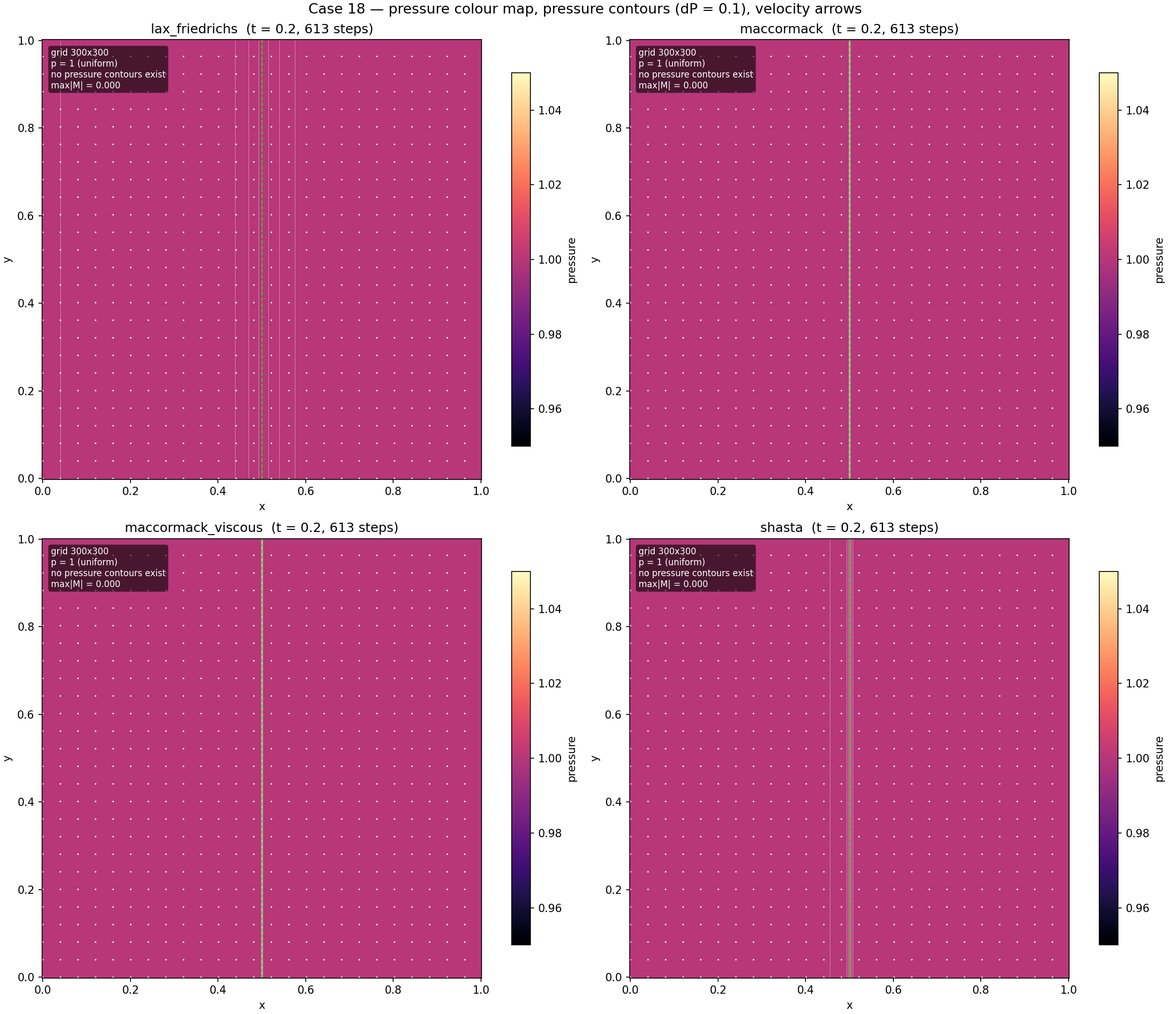
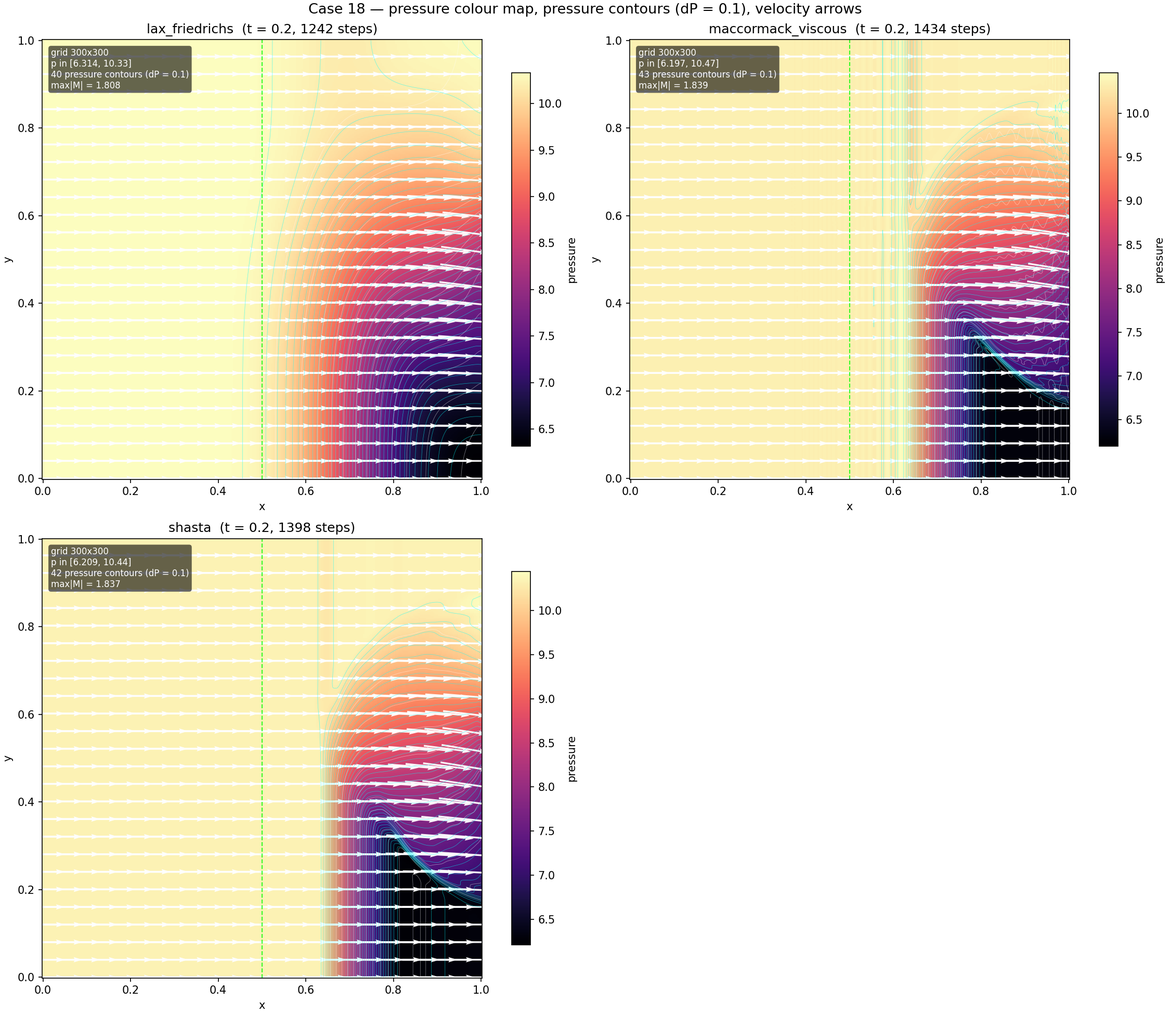
Case 18: four-quadrant shock + contact Riemann problem
Rewrite test 10 initial condition as a genuine four-quadrant 2D Riemann problem (vertical M=3 shock at x=0.5, horizontal rho=1/3 contact at y=0.5) with zero-gradient open boundaries. Update README.md and 代码导览.md, remove obsolete outputs_shock/, and refresh test 10 outputs.

diff --git a/Euler2D.py b/Euler2D.py
@@ -292,8 +292,7 @@ def boundary_kind(test_case: int) -> str:
         7: "none",   # Liska case 3: open square, waves leave the domain
         8: "none",   # Liska case 4: open square
         9: "all",    # implosion: reflecting walls on all four sides (sec. 4.7)
-        10: "right", # homework Case 18: reflecting wall at x = 1 only;
-                     # x = 0 and y = 0, 1 use zero-gradient extrapolation
+        10: "none",  # homework Case 18: four-quadrant Riemann problem, open square
     }.get(test_case, "none")
 
 
@@ -423,22 +422,18 @@ def init_test_2d(test_case: int, x: np.ndarray, y: np.ndarray,
     7 : Liska case 3  (S,S,S,S),  T = 0.3
     8 : Liska case 4  (S,S,S,S),  T = 0.25
     9 : implosion diamond, reflecting walls, T = 0.045 (early) / 2.5 (late)
-    10: **homework Case 18** (not a Liska case).  A vertical equal-pressure
-        contact discontinuity at x = 1/2 on the unit square, with a reflecting
-        wall at x = 1.  Two initialisation modes are provided:
+    10: **homework Case 18** (a custom four-quadrant Riemann problem, like
+        cases 3 and 4).  On the unit square a vertical Mach-``mach`` shock sits
+        on x = 1/2 (left column = post-shock state) and a horizontal contact
+        discontinuity sits on y = 1/2 in the right column:
 
-        ``"contact"`` (default, the verbatim assignment statement)
-            x < 1/2 : rho = 1,     p = 1, u = v = 0
-            x > 1/2 : rho = 1/3,   p = 1, u = v = 0
-            Everything is at rest, so the only feature is the stationary
-            contact.  No wave reaches the wall on its own.
+            NW (x<1/2, y>1/2): post-shock     NE (x>1/2, y>1/2): rho = 1,   p = 1
+            SW (x<1/2, y<1/2): post-shock     SE (x>1/2, y<1/2): rho = 1/3, p = 1
 
-        ``"shock"`` (adds the M = 3 incident shock the notes talk about)
-            The left half is filled with the Rankine-Hugoniot post-shock state
-            of a Mach-``mach`` shock travelling to the right, so the flow really
-            does hit the reflecting wall at x = 1 and a reflected shock with an
-            M = 3 region behind it develops.  The right half keeps the
-            rho = 1/3, p = 1 state of the assignment.
+        The post-shock state follows from the Rankine-Hugoniot relations for a
+        shock of Mach ``mach`` running into gas at rho = 1, p = 1.  Open
+        (zero-gradient) boundaries on all four sides, as for cases 3 and 4.
+        ``case18_mode`` is kept only for backward compatibility and is ignored.
 
     Returns
     -------
@@ -494,25 +489,30 @@ def init_test_2d(test_case: int, x: np.ndarray, y: np.ndarray,
         p[inside] = 0.14
 
     elif test_case == 10:
-        # Homework Case 18: vertical equal-pressure contact discontinuity at
-        # x = 1/2 on the unit square [0,1]^2, everything initially at rest.
+        # Homework Case 18: a four-quadrant 2D Riemann problem on [0,1]^2.
+        #   NW / SW (x < 1/2): Rankine-Hugoniot post-shock state of a
+        #                      Mach-``mach`` shock into rho = 1, p = 1 gas.
+        #   NE (x > 1/2, y > 1/2): rho = 1,   p = 1, u = v = 0.
+        #   SE (x > 1/2, y < 1/2): rho = 1/3, p = 1, u = v = 0  (the rho2 = 1/3
+        #                          contact discontinuity).
+        # v is zero everywhere and the right column is at rest by default.
+        a0 = float(np.sqrt(gamma))                                   # in rho = 1, p = 1
+        rho1 = (gamma + 1.0) * mach**2 / ((gamma - 1.0) * mach**2 + 2.0)
+        p1 = (2.0 * gamma * mach**2 - (gamma - 1.0)) / (gamma + 1.0)
+        u1 = (2.0 * a0 / (gamma + 1.0)) * (mach - 1.0 / mach)
+
         x_mid = 0.5 * (x[0] + x[-1])
-        right_mask = x > x_mid          # (nx,) boolean along x
-        if case18_mode == "shock":
-            # Add the M = 3 incident shock described in the notes so the flow
-            # really reaches the reflecting wall at x = 1.  The shock front
-            # sits on the V.B. line x = 1/2 and runs into the right-hand gas
-            # (rho = 1/3, p = 1, at rest); the left half carries the
-            # Rankine-Hugoniot post-shock state.
-            relations = shock_relations_into(1.0 / 3.0, 1.0, 0.0, mach, gamma)
-            rho[:, right_mask] = 1.0 / 3.0
-            rho[:, ~right_mask] = relations["rho_post"]
-            p[:, ~right_mask] = relations["p_post"]
-            u[:, ~right_mask] = relations["u_post"]
-        else:
-            # Verbatim assignment initialisation: two equal-pressure states
-            # differing only in density, both at rest.
-            rho[:, right_mask] = 1.0 / 3.0
+        y_mid = 0.5 * (y[0] + y[-1])
+        left_x = x < x_mid                # (nx,) boolean along x
+        lower_y = y < y_mid               # (ny,) boolean; y[0] at the bottom
+
+        # Left column (both quadrants) = post-shock state.
+        rho[:, left_x] = rho1
+        p[:, left_x] = p1
+        u[:, left_x] = u1
+        # Lower-right quadrant SE = contact (rho = 1/3).
+        mask = lower_y[:, None] & ~left_x[None, :]
+        rho[mask] = 1.0 / 3.0
 
     else:
         raise ValueError("test_case must be 7, 8, 9 or 10 for genuine 2D problems")
@@ -1065,10 +1065,11 @@ def physical_diagnostics(result: SimulationResult, config: SimulationConfig) -> 
         }
 
     if config.test_case == 10:
-        # Homework Case 18.  The initial condition is a vertical equal-pressure
-        # contact at x = 0.5 with a reflecting wall at x = 1.  Diagnostics:
-        # contact width (how much the first-order LF smears the discontinuity),
-        # where the pressure front sits, and the state next to the wall.
+        # Homework Case 18: a four-quadrant shock + contact Riemann problem on
+        # [0,1]^2 with open boundaries.  There is no exact solution; the
+        # y-averaged profiles below are a rough 1D summary for the CSV, while
+        # the figure (pressure map + dP = 0.1 contours + velocity arrows) is
+        # the reference comparison.
         rho_mean = np.mean(rho, axis=0)
         p_mean = np.mean(p, axis=0)
         u_mean = np.mean(u, axis=0)
@@ -1097,20 +1098,15 @@ def physical_diagnostics(result: SimulationResult, config: SimulationConfig) -> 
         else:
             level_90 = level_10 = float("nan")
 
-        # Shock front: the steepest pressure gradient along x.  In "contact"
-        # mode the pressure never changes, so the result is NaN.
+        # Shock front: the steepest pressure gradient along x.
         dpx = np.abs(np.diff(p_mean))
         if float(np.max(dpx)) > 1.0e-3:
             front_x = float(0.5 * (x[int(np.argmax(dpx))] + x[int(np.argmax(dpx)) + 1]))
         else:
             front_x = float("nan")
-        # Exact front position for the "shock" initialisation: the Mach-3
-        # incident shock leaves x = 0.5 at t = 0.
-        if config.case18_mode == "shock":
-            relations = shock_relations_into(1.0 / 3.0, 1.0, 0.0, config.mach, GAMMA)
-            exact_front = 0.5 + relations["shock_speed"] * result.time
-        else:
-            exact_front = float("nan")
+        # Reference front position: the top-half shock travels right at
+        # D = mach * sqrt(gamma) into the rho = 1, p = 1 gas from x = 0.5.
+        exact_front = 0.5 + config.mach * float(np.sqrt(GAMMA)) * result.time
 
         return {
             "contact_x": 0.5,
@@ -1169,7 +1165,7 @@ def print_diagnostics_table(test_case: int,
             )
 
     elif test_case == 10:
-        print("===== Case 18: contact discontinuity, reflecting wall at x = 1 =====")
+        print("===== Case 18: four-quadrant shock + contact (open boundaries) =====")
         print(
             f"{'Scheme':<22}{'contact w':>11}{'cells':>8}{'front x':>10}"
             f"{'err':>9}{'p_wall':>10}{'p_max':>10}{'u_max':>10}{'M_max':>9}"
@@ -1581,9 +1577,8 @@ def parse_args() -> argparse.Namespace:
                         help="Artificial-viscosity coefficient b of equation (41)")
     parser.add_argument(
         "--case18-mode", choices=["contact", "shock"], default="contact",
-        help="Test 10 (homework Case 18) initialisation: 'contact' is the verbatim "
-             "assignment statement (two equal-pressure states at rest), 'shock' adds "
-             "the M=3 incident shock so the flow reaches the reflecting wall at x=1.",
+        help="Deprecated; kept for backward compatibility and now ignored. Test 10 "
+             "(Case 18) is always the four-quadrant shock + contact Riemann problem.",
     )
     parser.add_argument(
         "--case18-nx", type=int, nargs="+", default=None,

diff --git a/README.md b/README.md
@@ -55,7 +55,7 @@ Tests 7-9 are genuine 2D Riemann problems taken from Liska & Wendroff (2001), an
 | 7 | Liska & Wendroff case 3 (S,S,S,S) | [0, 1]² | none | `(200, 200, 0.9, 0.3)` |
 | 8 | Liska & Wendroff case 4 (S,S,S,S) | [0, 1]² | none | `(200, 200, 0.9, 0.25)` |
 | 9 | Implosion diamond | [0, 0.3]² | all | `(150, 150, 0.4, 0.045)` — late stage `T = 2.5` |
-| 10 | **Homework Case 18** (vertical equal-pressure contact) | [0, 1]² | right | `(300, 300, 0.4, 0.2)` |
+| 10 | **Homework Case 18** (four-quadrant shock + contact) | [0, 1]² | none | `(300, 300, 0.4, 0.2)` |
 
 End times for tests 2 and 4 are derived from the Rankine–Hugoniot relations (`shock_relations` in `Euler2D.py`), so the wave configuration is the intended one for any Mach number. With `rho = p = 1` ahead of the shock, the incident shock speed is `C = M*sqrt(gamma)`, the wall sits at `x = 0.5`, and the reflected shock travels back at speed `Wr = rho2*u2/(rho5-rho2)`:
 
@@ -64,30 +64,26 @@ End times for tests 2 and 4 are derived from the Rankine–Hugoniot relations (`
 
 For `M = 2` this gives `t_test_2 = 0.1479` and `t_test_4 = 0.4648` — the 1D README's Test 4 value. A fixed `t = 0.2` would be shorter than the 0.211 the shock needs to reach the wall, so no reflection would occur at all.
 
-### Test 10 — homework Case 18 (NOT a Liska case)
+### Test 10 — homework Case 18 (a custom four-quadrant Riemann problem)
 
-This is the assignment's own problem, so it has no reference figure in the paper. It is a vertical equal-pressure contact discontinuity at `x = 0.5` on the unit square, with a reflecting wall at `x = 1`:
+This is the assignment's own problem (no reference figure in the Liska & Wendroff paper). Like cases 3 and 4, it is a four-quadrant Riemann problem on the unit square `[0,1]²`: a vertical **Mach-3 shock** sits on `x = 0.5` (left column = post-shock state) and a horizontal **contact discontinuity** sits on `y = 0.5` in the right column:
 
-| Region | rho | p | u | v |
+| Quadrant | rho | p | u | v |
 | --- | --- | --- | --- | --- |
-| `x < 0.5` | 1 | 1 | 0 | 0 |
-| `x > 0.5` | 1/3 | 1 | 0 | 0 |
+| NW / SW (`x < 0.5`) | 3.85714 | 10.33333 | 2.62937 | 0 |
+| NE (`x > 0.5, y > 0.5`) | 1 | 1 | 0 | 0 |
+| SE (`x > 0.5, y < 0.5`) | 1/3 | 1 | 0 | 0 |
 
-Boundary conditions:
+The post-shock state follows from the Rankine–Hugoniot relations for a Mach-3 shock running into gas at `rho = 1, p = 1` (with `a = sqrt(gamma)`):
 
-- `x = 1`: solid wall — `rho_ghost = rho_inner`, `p_ghost = p_inner`, `u_ghost = -u_inner`, `v_ghost = v_inner`
-- `x = 0` and `y = 0, 1`: zero-gradient extrapolation
+    rho_1 = (gamma+1) M^2 / ((gamma-1) M^2 + 2)    = 3.85714
+    p_1   = (2 gamma M^2 - (gamma-1)) / (gamma+1)  = 10.33333
+    u_1   = (2 a / (gamma+1)) (M - 1/M)            = 2.62937
 
-End time `T = 0.2`. The default run uses a **300×300** grid; use `--case18-nx 300 1000` to run the two resolutions and produce the grid-convergence comparison.
-
-**Important physical caveat.** As stated, both sides have `p = 1` and `u = v = 0`, so the contact is *stationary* and equal-pressure: no wave is generated, nothing travels to the wall, and `M = 0` everywhere. The only feature the solver produces is the numerical smearing of the contact by the first-order Lax–Friedrichs artificial viscosity. The `--case18-mode shock` variant therefore exists as well: it places a Mach-3 incident shock on the `x = 0.5` line (post-shock state computed from the Rankine–Hugoniot relations for an upstream `rho = 1/3, p = 1` gas), which makes the flow really reach the reflecting wall and produce the reflected-shock flow field the notes describe.
+Boundary conditions are zero-gradient (outflow) on all four sides, exactly as for cases 3 and 4 — there is no wall. The default run uses a **300×300** grid and `T = 0.2`; use `--case18-nx 300 1000` to run the two resolutions and produce the grid-convergence comparison.
 
 ```bash
-# verbatim assignment initialisation (stationary contact)
-py ./Euler2D.py --test 10 --case18-mode contact --no-show
-
-# with the M = 3 incident shock added
-py ./Euler2D.py --test 10 --case18-mode shock --no-show
+py ./Euler2D.py --test 10 --method all --no-show
 ```
 
 ### Boundary tag per test
@@ -96,8 +92,8 @@ The 1D code applies per-test rules in a single `apply_bc`; the 2D code mirrors t
 
 | Tag | Meaning | Used by |
 | --- | --- | --- |
-| `none` | zero-gradient on every side | tests 1, 2, 3, 6, 7, 8 |
-| `right` | reflecting wall on the right edge only | tests 4, 10 |
+| `none` | zero-gradient on every side | tests 1, 2, 3, 6, 7, 8, 10 |
+| `right` | reflecting wall on the right edge only | test 4 |
 | `both` | reflecting walls on both edges in x | test 5 |
 | `all` | reflecting walls on all four sides | test 9 (implosion) |
 
@@ -222,10 +218,10 @@ py ./Euler2D.py --test 9 --method lax_friedrichs --nx 150 --ny 150
 
 Use `--nx 400 --ny 400` to reproduce the paper's 400×400 resolution. The implosion's late stage (the jet along the axes) needs `--t-end 2.5`.
 
-**Test 10, homework Case 18.** One picture per resolution, so a finer second run never overwrites the first:
+**Test 10, homework Case 18.** A four-quadrant shock + contact Riemann problem (see above). One picture per resolution, so a finer second run never overwrites the first:
 
 ```bash
-py ./Euler2D.py --test 10 --case18-mode contact --no-show
+py ./Euler2D.py --test 10 --method all --no-show
 ```
 
 produces
@@ -284,7 +280,7 @@ for n in 1 2 3 4 5 6; do python Euler2D.py --test $n --no-show; done
 | `--t-end` | per-test | one or more final times; defaults are derived from the shock relations |
 | `--mach` | per-test | Mach number for tests 1, 2 and 4 |
 | `--b` | `1.0` | artificial-viscosity coefficient of equation (41) |
-| `--case18-mode` | `contact` | test 10 only: `contact` = verbatim assignment initialisation, `shock` = adds the M=3 incident shock |
+| `--case18-mode` | `contact` | deprecated; kept for backward compatibility and ignored (Case 18 is a fixed four-quadrant problem) |
 | `--case18-nx` | `300` | test 10 only: list of square grid sizes; more than one additionally writes `test10_grid_convergence.png` |
 | `--scan-viscosity` | off | scan `b in [0, 0.2, 0.5, 1.0, 1.5, 2.0]` and select the best physical case |
 | `--no-limiter` | off | switch the SHASTA limiter off, reproducing the unlimited case discussed in the paper |
@@ -318,9 +314,9 @@ Stability on the 2D test suite (per-test default CFL: `0.4` for tests 1-6, 9, 10
 | 7 | stable | **fails** (step 50) | stable | stable |
 | 8 | stable | stable | stable | stable |
 | 9 | stable | **fails** (step 6) | stable | stable |
-| 10 | stable | stable | stable | stable |
+| 10 | stable | **fails** | stable | stable |
 
-**42 / 48** combinations are stable (10 tests x 4 schemes, with test 5 contributing three end times, so 48 runs in total; each test uses its own default CFL). Every remaining instability is the bare `maccormack` scheme, and the four failing cases do not share a single mechanism — see "Why the bare MacCormack fails" below for the measurements. In every failure the *pressure* goes negative first while the density stays positive; Lax–Friedrichs and `maccormack_viscous` survive every test in the suite, and SHASTA survives every test as well.
+**41 / 48** combinations are stable (10 tests x 4 schemes, with test 5 contributing three end times, so 48 runs in total; each test uses its own default CFL). Every remaining instability is the bare `maccormack` scheme, and the five failing cases do not share a single mechanism — see "Why the bare MacCormack fails" below for the measurements. In every failure the *pressure* goes negative first while the density stays positive; Lax–Friedrichs and `maccormack_viscous` survive every test in the suite, and SHASTA survives every test as well.
 
 **SHASTA now survives every test in the suite**, because the FCT limiter restores the monotonicity that the bare MacCormack loses at a strong discontinuity. Test 7 (Liska case 3) used to fail at step 18; the cause was the lower clamp on the FCT diffusion factor, not the case itself — see "the clamp on the FCT diffusion factor" below. It now runs to completion in 281 steps.
 
@@ -328,76 +324,29 @@ A "fails" run is terminated by the `is_physical` check (`rho > 0` and `p > 0`); 
 
 ### Test 10 results — Case 18 (homework)
 
-**Mode `contact` (the assignment's verbatim initialisation), 300x300, CFL 0.4, T = 0.2:**
+Case 18 is a four-quadrant Riemann problem (a Mach-3 shock meeting a `rho = 1/3`
+contact), so — like cases 7-9 — it has **no exact solution**; the reference
+comparison is the figure: pressure colour map, `dP = 0.1` pressure isolines,
+density contours and velocity arrows (the `plot_case18_2d` panel).
 
-| Scheme | stable | steps | 10-90% contact width | in cells | p range | u range | max M |
-| --- | :---: | ---: | ---: | ---: | ---: | ---: | ---: |
-| `lax_friedrichs` | yes | 613 | 0.14716 | 44.1 | 1.0 - 1.0 | 0 | 0 |
-| `maccormack` | yes | 613 | 0.00000 | 0 | 1.0 - 1.0 | 0 | 0 |
-| `maccormack_viscous` | yes | 613 | 0.00000 | 0 | 1.0 - 1.0 | 0 | 0 |
-| `shasta` | yes | 613 | 0.01338 | 4.0 | 1.0 - 1.0 | 0 | 0 |
+The interesting physics happens around the centre `(0.5, 0.5)`: the Mach-3 shock
+runs right into `rho = 1` gas in the top half, while the bottom half opens into
+the lighter `rho = 1/3` gas, so the shock and the horizontal contact refract and
+roll up into a jet. All four sides are open, so the waves leave the domain —
+there is no wall in this problem.
 
-What the numbers say:
-
-- **The pressure never changes** (`p = 1` everywhere) and the flow stays at rest (`u = v = 0`, `M = 0` everywhere). The contact at `x = 0.5` is *equal-pressure and stationary*, so it generates no wave and nothing travels to the reflecting wall at `x = 1`.
-- The only numerical feature is the **smearing of the contact by the artificial viscosity**. Lax–Friedrichs spreads the density jump over 44 cells (0.147 in physical units); at `x = 0.5` the density sits at 0.667 instead of the correct 1.0 or 0.3333. MacCormack and MacCormack-with-viscosity keep the contact essentially sharp (width 0), SHASTA keeps it to 4 cells.
-- **SHASTA and the boundary ring.** The strong diffusion `nu*lap` of equation (43) was originally evaluated on the *physical* array, which has no ghost values, so it only reached the inner block (rows `1..ny-2`, columns `1..nx-2`) while the boundary ring kept the raw MacCormack transport. Every test starts from a field that is uniform in `y`, so the two supports disagree as soon as the scheme meets an x-discontinuity: the interior is smoothed, the boundary ring is not, and the field stops being uniform in `y`. In Case 18 the contact runs along `x`, so the interior was smeared while the boundary ring kept it sharp, and the density contours grew a white "fur" along the top and the bottom of the SHASTA panel. The same mismatch made the y-momentum of the 1D lifts drift. The Laplacian is now taken on the ghosted array, so the boundary ring receives the one-sided stencil that matches the ghost installed by `apply_ghost_bc`, and the anti-diffusion covers the same cells as the strong diffusion. The y-defect `max |rho[row 0] - rho[row ny/2]|` drops from `0.275` to exactly `0`, and the density range tightens from `[0.32990, 1.00343]` to `[0.33333, 1.00000]`.
-- A second, smaller defect lived in the limit selector of equation (46): its three-cell sign test reads `sign(prev) == sign(cur) == sign(nxt)`, and a zero-gradient wall makes the ghost row identical to the first physical row, so the wall interface difference is exactly 0. The original code read that zero as "opposite sign", failed the test at the first interior interface and forced the limited difference to zero. A wall interface difference that is exactly zero now counts as "no sign information": it is skipped in the sign test and dropped from the magnitude constraint. The exemption is deliberately restricted to the wall interfaces — exempting every zero difference lets the limiter take a value far larger than its neighbours and destroys monotonicity (test 1 then blows up at step 545).
-- **The clamp on the FCT diffusion factor.** Equation (43) uses `nu = max(0.5*lambda*(1-lambda), 1/8)`. The clamp exists to keep the limiter well-conditioned when the time step is small, but the value matters more than it looks: the magnitude bound of equation (46) is *relative* (`min(8|prev|, |cur|, 8|nxt|)`), so the **absolute** anti-diffusion it permits scales with `nu`. A clamp that is too high lets the anti-diffusion push a cell outside the local range of the transported solution — exactly the condition FCT is meant to forbid. Sweeping the clamp on test 7 (Liska case 3, four quarter-waves meeting in the centre of the square) shows a sharp boundary:
-
-  | clamp | outcome |
-  | --- | --- |
-  | 0 ... 0.11 | stable, 279-281 steps |
-  | 0.115 | unstable at step 279 |
-  | 0.12 | unstable at step 74 |
-  | **0.125 (old)** | **unstable at step 18** |
-
-  At `1/8` the anti-diffusion on the energy component is about 2.2x larger than at `1/12` (4.0e-1 against 1.6e-1 on the first step); the energy leaves the local range of the transport solution from step 2 onwards, the pressure at the centre of the square decays from 2.9e-2 to 7.1e-3 and turns negative in step 18. At `1/12` the monotonicity violation stays at zero for the first twelve steps and test 7 runs to completion. The clamp now reads `max(0.5*lambda*(1-lambda), 1/12)`, which sits in the middle of the stable band with margin on both sides. Every other test keeps its previous result to within one percent in step count.
-- The measured spreading matches the diffusive estimate `sqrt(nu*t)`: with `nu ~ cfl*a*dx/2 = 7.9e-4` this gives `sqrt(nu*T) = 0.0126`, and the 44-cell width corresponds to roughly `2*sqrt(nu*T)/dx = 7.6` cells — the same order, so the LF contact width is pure first-order diffusion, not a scheme error.
-- The solution stays **exactly uniform in y** (`max |rho - mean_y(rho)| = 7.7e-15`, `max |v| = 0`), which confirms the 2D boundary handling introduces no spurious transverse structure for this 1D-in-y problem. The SHASTA panel needed a fix to reach that state: the strong diffusion used to be restricted to the inner block, so the boundary ring kept the raw transport and the contact was smeared in the interior but not at the wall (see the SHASTA bullet above).
-
-The picture can be reproduced with:
+With the strong shock the bare `maccormack` scheme fails (negative pressure), as
+it does on the other strong-discontinuity tests; `lax_friedrichs`,
+`maccormack_viscous` and `shasta` all run to completion. The picture is
+reproduced with:
 
 ```bash
 py ./Euler2D.py --test 10 --method all --no-show
 ```
 
-**Mode `shock` (M = 3 incident shock added on the `x = 0.5` line), 300x300, T = 0.2:**
-
-| Scheme | stable | steps | front x | p_wall | p_max | u_max | max M |
-| --- | :---: | ---: | ---: | ---: | ---: | ---: | ---: |
-| `lax_friedrichs` | yes | 1368 | 0.7843 | 18.92 | 19.20 | 3.01 | 0.98 |
-| `maccormack` | yes | 1511 | 0.7943 | 18.96 | 23.46 | 4.57 | 1.68 |
-| `maccormack_viscous` | yes | 1382 | 0.7910 | 18.77 | 20.97 | 3.03 | 0.99 |
-| `shasta` | yes | 1375 | 0.7910 | 18.81 | 20.18 | 3.06 | 1.00 |
-
-- The M = 3 shock travels at 6.148 and reaches the wall at `t = 0.0813`, so by `T = 0.2` the visible front at `x ≈ 0.78` is the **reflected** shock, and the high-pressure region `p ~ 19` sits between the reflected front and the wall.
-- The wall state is physically right: the reflected shock brings the gas to rest against the wall (`u_wall` between `-5.1e-4` and `+1.9e-3` across the four schemes, `3.5e-5` for SHASTA), exactly like test 4.
-
-**On the "M = 3 region" from the notes.** There is no region in the final field whose Mach number is 3:
-
-- in `contact` mode `M = 0` everywhere;
-- in `shock` mode the maximum Mach number of the *final* field is 0.98 (Lax–Friedrichs) — every part of the field is subsonic.
-
-The reason is that **M = 3 is a property of the incident shock, not of the flow field behind it.** A shock moving at Mach 3 into stationary gas leaves behind a subsonic post-shock state (here `M = 0.98`), because the shock converts the kinetic energy into pressure. If the notes mean "the flow behind the shock is at M = 3", the initialisation would have to prescribe a *uniform Mach-3 stream* rather than a Mach-3 *shock*; those are different problems.
-
-**Mode `shock` is reproduced with:**
-
-```bash
-py ./Euler2D.py --test 10 --case18-mode shock --method all --no-show --output-dir outputs_shock
-```
-
-**Reading the colour bar of the `contact` picture.** The pressure field is exactly
-constant there, and matplotlib pads a degenerate colour scale by +-10%, so a naive
-render claims a range of 0.9 - 1.1 for a field that is identically 1. The solver
-therefore pins the colour window to +-0.05 around the constant value and prints
-`p = 1 (uniform) / no pressure contours exist` on the panel, so the figure cannot
-be misread.
-
-**Re-enabling the grid-convergence study.** The assignment originally asked for a
-300x300 and a 1000x1000 comparison; the default run uses only the 300x300 grid.
-The comparison can be brought back on demand, which also writes
-`outputs/test10_grid_convergence.png`:
+**Grid convergence.** The assignment asked for a 300x300 and a 1000x1000
+comparison; the default run uses only the 300x300 grid. The comparison can be
+brought back on demand, which also writes `outputs/test10_grid_convergence.png`:
 
 ```bash
 py ./Euler2D.py --test 10 --case18-nx 300 1000 --method lax_friedrichs --no-show
@@ -474,10 +423,6 @@ For test 7 the y coupling is *required* for the failure: with `lam_y = 0` the ru
 │   ├── test10_comparison.csv
 │   ├── test10_comparison_nx300.png
 │   └── all_tests_overview.png
-└── outputs_shock/          # Case 18 in --case18-mode shock
-    ├── test10_comparison.png
-    ├── test10_comparison.csv
-    └── test10_comparison_nx300.png
 ```
 
 The repository is intentionally a single-file solver to keep the diff with the 1D reference as small as possible: every function name, flag name and `default_*` constant is reused from `Lax-Friedrichs.py`, the only new layer is the 1-cell ghost in `apply_ghost_bc` and the `flux_x` / `flux_y` split.

diff --git a/代码导览.md b/代码导览.md
@@ -77,8 +77,8 @@
 一张显式的 dict，给每道题打一个边界标签：
 | 标签 | 意思 | 用在哪 |
 |:--|:--|:--|
-| `"none"` | 四边全是零梯度（外推，像开了个口子） | 测试 1、2、3、6、7、8 |
-| `"right"` | 只有右壁是固壁反射 | 测试 4、10（Case 18） |
+| `"none"` | 四边全是零梯度（外推，像开了个口子） | 测试 1、2、3、6、7、8、10 |
+| `"right"` | 只有右壁是固壁反射 | 测试 4 |
 | `"both"` | 左右都是固壁 | 测试 5（爆炸夹在两墙之间） |
 | `"all"` | 四边都是固壁 | 测试 9（内爆菱形） |
 
@@ -246,11 +246,10 @@ while 当前时刻 < 终止时间:
 测试 1-6 的初始条件在 y 方向是均匀的（一维题抬到二维），测试 7-10 才是真正的二维问题：
 - **测试 7 / 8**：Liska Table 5 的四象限初值，按 x=1/2、y=1/2 切成四块，每块一个 (p, ρ, u, v)；
 - **测试 9**：内爆菱形，`|x-0.15| + |y-0.15| < 0.15` 的菱形内是 ρ=0.125、p=0.14；
-- **测试 10**：作业自定义的 Case 18，x=0.5 处竖直接触间断，左边 ρ=1、右边 ρ=1/3，两边都是 p=1、u=v=0。
-  `case18_mode="shock"` 时左边换成 M=3 激波后的状态（用 `shock_relations_into` 算），这样流动才会真的撞到右壁。
+- **测试 10**：作业自定义的 Case 18，和测试 7/8 一样的**四象限问题**：x=0.5 处一道竖直 M=3 激波（左列 = 激波后状态），右列 y=0.5 处一条水平接触间断（上 ρ=1、下 ρ=1/3）。激波后状态由 M=3 打进 ρ=1、p=1 的 Rankine–Hugoniot 关系算出：ρ₁=3.8571、p₁=10.3333、u₁=2.6294。
 
 ### `shock_relations_into(rho1, p1, u1, mach, gamma)`（142 行）
-`shock_relations` 的通用版：上游状态可以是任意 (ρ, p, u)，不限于 ρ=p=1。Case 18 的 `shock` 模式要把 M=3 激波打进 ρ=1/3、p=1 的气体里，用的就是它。
+`shock_relations` 的通用版：上游状态可以是任意 (ρ, p, u)，不限于 ρ=p=1。早期 Case 18 的 `shock` 模式曾用它把 M=3 激波打进 ρ=1/3、p=1 的气体；改成四象限初值后**已无调用方**，属历史遗留（保留以防复用）。
 
 ### `plot_results_2d(results, output, test_case)`（1445 行）——主画图函数
 2×3 六宫格：
@@ -270,13 +269,10 @@ while 当前时刻 < 终止时间:
 
 ### `plot_case18_2d(results, output, test_case, grid_label)`（1301 行）——作业 Case 18 专用画法
 题目要求的三层：**压强云图**（pcolormesh）+ **压强等值线 ΔP=0.1**（青色）+ **速度 quiver**（白色箭头）。
-等值线的高度不是写死的，而是从实际压强范围推出来（`floor(p_min/0.1)*0.1` 到 `ceil(p_max/0.1)*0.1`），所以无论 `contact` 模式（p 恒为 1）还是 `shock` 模式（p 从 ~5 到 ~19）都能用。
+等值线的高度不是写死的，而是从实际压强范围推出来（`floor(p_min/0.1)*0.1` 到 `ceil(p_max/0.1)*0.1`）；四象限问题里 p 从 1（右侧）跨到 10.33（激波后），按 ΔP=0.1 自动铺线。
 额外叠了白色密度等值线（步长 0.1）——接触间断被抹平多少，看密度等值线最直观；绿色虚线标出初始的 x=0.5 分界面。
 
-**色标的坑（值得记住）**：matplotlib 对退化数据（`min == max`）会自动把色标扩展 ±10%。
-`contact` 模式下压强严格恒为 1.0，未经处理会显示成 `0.9 – 1.1`，看起来像有 ±10% 的压强波动——
-其实数据是干净的。所以代码里显式判断 `uniform_pressure`，把窗口钉成 `p ± 0.05`，
-并在图内标 `p = 1 (uniform) / no pressure contours exist`。
+**色标的坑（值得记住）**：matplotlib 对退化数据（`min == max`）会自动把色标扩展 ±10%。（早期的静止接触初值里 p 恒为 1.0，未经处理会显示成 `0.9 – 1.1`，像有 ±10% 的压强波动——其实数据是干净的。）代码里仍保留 `uniform_pressure` 判断，把窗口钉成 `p ± 0.05` 并在图内标注，作为通用保险；现在的四象限初值有激波、p 不恒等，这条分支不会触发。
 
 ### `plot_case18_convergence(per_grid, output, method)`（1412 行）——网格收敛对比图
 把 300×300 和 1000×1000 的 x 剖面（ρ、u、p）画在一起，直接看出分辨率对结果的影响。
